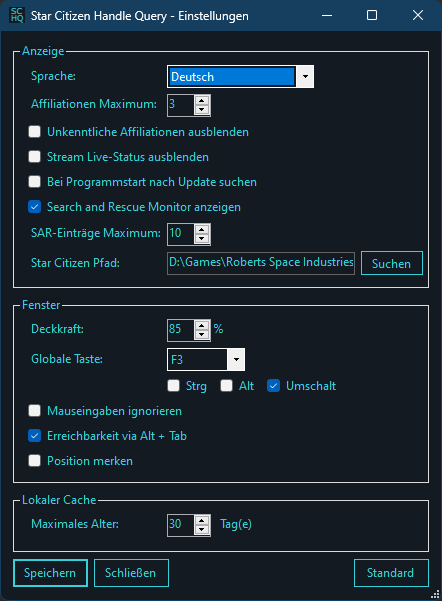
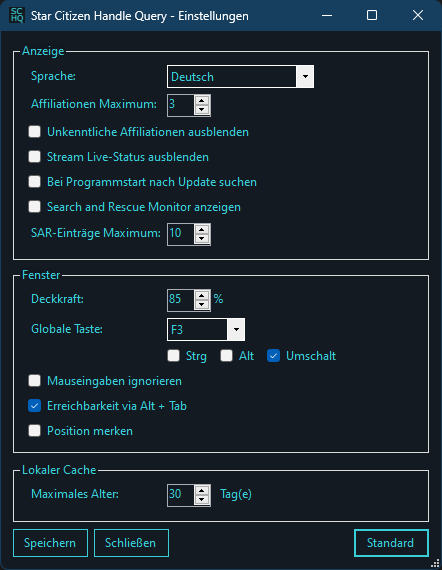
StarCitizen_Launcher Process

Changed region(s): [[0.0, 0.0, 1.0, 0.9842], [0.9706, 0.9842, 1.0, 1.0]]

diff --git a/Star Citizen Handle Query/Dialogs/FormSettings.Designer.cs b/Star Citizen Handle Query/Dialogs/FormSettings.Designer.cs
@@ -46,9 +46,6 @@
       this.GroupBoxLokalerCache = new System.Windows.Forms.GroupBox();
       this.ButtonStandard = new System.Windows.Forms.Button();
       this.GroupBoxAnzeige = new System.Windows.Forms.GroupBox();
-      this.ButtonStarCitizenPfadSuchen = new System.Windows.Forms.Button();
-      this.LabelStarCitizenPfad = new System.Windows.Forms.Label();
-      this.TextBoxStarCitizenPfad = new System.Windows.Forms.TextBox();
       this.NumericUpDownSAREintraegeMaximum = new System.Windows.Forms.NumericUpDown();
       this.LabelSAREintraegeMaximum = new System.Windows.Forms.Label();
       this.CheckBoxShowSAR = new System.Windows.Forms.CheckBox();
@@ -109,7 +106,7 @@
       // ButtonSpeichern
       // 
       this.ButtonSpeichern.FlatStyle = System.Windows.Forms.FlatStyle.Flat;
-      this.ButtonSpeichern.Location = new System.Drawing.Point(12, 528);
+      this.ButtonSpeichern.Location = new System.Drawing.Point(12, 498);
       this.ButtonSpeichern.Name = "ButtonSpeichern";
       this.ButtonSpeichern.Size = new System.Drawing.Size(75, 28);
       this.ButtonSpeichern.TabIndex = 3;
@@ -120,7 +117,7 @@
       // ButtonSchliessen
       // 
       this.ButtonSchliessen.FlatStyle = System.Windows.Forms.FlatStyle.Flat;
-      this.ButtonSchliessen.Location = new System.Drawing.Point(93, 528);
+      this.ButtonSchliessen.Location = new System.Drawing.Point(93, 498);
       this.ButtonSchliessen.Name = "ButtonSchliessen";
       this.ButtonSchliessen.Size = new System.Drawing.Size(75, 28);
       this.ButtonSchliessen.TabIndex = 4;
@@ -161,7 +158,7 @@
       this.GroupBoxFenster.Controls.Add(this.LabelFensterDeckkraftProzent);
       this.GroupBoxFenster.FlatStyle = System.Windows.Forms.FlatStyle.Flat;
       this.GroupBoxFenster.ForeColor = System.Drawing.Color.FromArgb(((int)(((byte)(57)))), ((int)(((byte)(206)))), ((int)(((byte)(216)))));
-      this.GroupBoxFenster.Location = new System.Drawing.Point(12, 266);
+      this.GroupBoxFenster.Location = new System.Drawing.Point(12, 236);
       this.GroupBoxFenster.Name = "GroupBoxFenster";
       this.GroupBoxFenster.Size = new System.Drawing.Size(416, 187);
       this.GroupBoxFenster.TabIndex = 1;
@@ -305,7 +302,7 @@
       this.GroupBoxLokalerCache.Controls.Add(this.LabelLokalerCacheAlter);
       this.GroupBoxLokalerCache.FlatStyle = System.Windows.Forms.FlatStyle.Flat;
       this.GroupBoxLokalerCache.ForeColor = System.Drawing.Color.FromArgb(((int)(((byte)(57)))), ((int)(((byte)(206)))), ((int)(((byte)(216)))));
-      this.GroupBoxLokalerCache.Location = new System.Drawing.Point(12, 461);
+      this.GroupBoxLokalerCache.Location = new System.Drawing.Point(12, 431);
       this.GroupBoxLokalerCache.Name = "GroupBoxLokalerCache";
       this.GroupBoxLokalerCache.Size = new System.Drawing.Size(416, 61);
       this.GroupBoxLokalerCache.TabIndex = 2;
@@ -315,7 +312,7 @@
       // ButtonStandard
       // 
       this.ButtonStandard.FlatStyle = System.Windows.Forms.FlatStyle.Flat;
-      this.ButtonStandard.Location = new System.Drawing.Point(353, 528);
+      this.ButtonStandard.Location = new System.Drawing.Point(353, 498);
       this.ButtonStandard.Name = "ButtonStandard";
       this.ButtonStandard.Size = new System.Drawing.Size(75, 28);
       this.ButtonStandard.TabIndex = 5;
@@ -325,9 +322,6 @@
       // 
       // GroupBoxAnzeige
       // 
-      this.GroupBoxAnzeige.Controls.Add(this.ButtonStarCitizenPfadSuchen);
-      this.GroupBoxAnzeige.Controls.Add(this.LabelStarCitizenPfad);
-      this.GroupBoxAnzeige.Controls.Add(this.TextBoxStarCitizenPfad);
       this.GroupBoxAnzeige.Controls.Add(this.NumericUpDownSAREintraegeMaximum);
       this.GroupBoxAnzeige.Controls.Add(this.LabelSAREintraegeMaximum);
       this.GroupBoxAnzeige.Controls.Add(this.CheckBoxShowSAR);
@@ -342,42 +336,10 @@
       this.GroupBoxAnzeige.ForeColor = System.Drawing.Color.FromArgb(((int)(((byte)(57)))), ((int)(((byte)(206)))), ((int)(((byte)(216)))));
       this.GroupBoxAnzeige.Location = new System.Drawing.Point(12, 12);
       this.GroupBoxAnzeige.Name = "GroupBoxAnzeige";
-      this.GroupBoxAnzeige.Size = new System.Drawing.Size(416, 246);
+      this.GroupBoxAnzeige.Size = new System.Drawing.Size(416, 218);
       this.GroupBoxAnzeige.TabIndex = 0;
       this.GroupBoxAnzeige.TabStop = false;
       this.GroupBoxAnzeige.Text = "Anzeige";
-      // 
-      // ButtonStarCitizenPfadSuchen
-      // 
-      this.ButtonStarCitizenPfadSuchen.FlatStyle = System.Windows.Forms.FlatStyle.Flat;
-      this.ButtonStarCitizenPfadSuchen.Location = new System.Drawing.Point(348, 208);
-      this.ButtonStarCitizenPfadSuchen.Name = "ButtonStarCitizenPfadSuchen";
-      this.ButtonStarCitizenPfadSuchen.Size = new System.Drawing.Size(62, 24);
-      this.ButtonStarCitizenPfadSuchen.TabIndex = 12;
-      this.ButtonStarCitizenPfadSuchen.Text = "Suchen";
-      this.ButtonStarCitizenPfadSuchen.UseVisualStyleBackColor = true;
-      this.ButtonStarCitizenPfadSuchen.Click += new System.EventHandler(this.ButtonStarCitizenPfadSuchen_Click);
-      // 
-      // LabelStarCitizenPfad
-      // 
-      this.LabelStarCitizenPfad.AutoSize = true;
-      this.LabelStarCitizenPfad.Location = new System.Drawing.Point(15, 212);
-      this.LabelStarCitizenPfad.Name = "LabelStarCitizenPfad";
-      this.LabelStarCitizenPfad.Size = new System.Drawing.Size(96, 15);
-      this.LabelStarCitizenPfad.TabIndex = 10;
-      this.LabelStarCitizenPfad.Text = "Star Citizen Pfad:";
-      // 
-      // TextBoxStarCitizenPfad
-      // 
-      this.TextBoxStarCitizenPfad.BackColor = System.Drawing.Color.FromArgb(((int)(((byte)(19)))), ((int)(((byte)(26)))), ((int)(((byte)(33)))));
-      this.TextBoxStarCitizenPfad.BorderStyle = System.Windows.Forms.BorderStyle.FixedSingle;
-      this.TextBoxStarCitizenPfad.ForeColor = System.Drawing.Color.FromArgb(((int)(((byte)(57)))), ((int)(((byte)(206)))), ((int)(((byte)(216)))));
-      this.TextBoxStarCitizenPfad.Location = new System.Drawing.Point(154, 209);
-      this.TextBoxStarCitizenPfad.Name = "TextBoxStarCitizenPfad";
-      this.TextBoxStarCitizenPfad.PlaceholderText = "Pfad zur StarCitizen.exe";
-      this.TextBoxStarCitizenPfad.Size = new System.Drawing.Size(188, 23);
-      this.TextBoxStarCitizenPfad.TabIndex = 11;
-      this.TextBoxStarCitizenPfad.TextChanged += new System.EventHandler(this.TextBoxStarCitizenPfad_TextChanged);
       // 
       // NumericUpDownSAREintraegeMaximum
       // 
@@ -493,7 +455,7 @@
       this.AutoScaleMode = System.Windows.Forms.AutoScaleMode.Font;
       this.BackColor = System.Drawing.Color.FromArgb(((int)(((byte)(19)))), ((int)(((byte)(26)))), ((int)(((byte)(33)))));
       this.CancelButton = this.ButtonSchliessen;
-      this.ClientSize = new System.Drawing.Size(440, 569);
+      this.ClientSize = new System.Drawing.Size(440, 538);
       this.Controls.Add(this.GroupBoxAnzeige);
       this.Controls.Add(this.GroupBoxLokalerCache);
       this.Controls.Add(this.GroupBoxFenster);
@@ -502,7 +464,7 @@
       this.Controls.Add(this.ButtonSpeichern);
       this.ForeColor = System.Drawing.Color.FromArgb(((int)(((byte)(57)))), ((int)(((byte)(206)))), ((int)(((byte)(216)))));
       this.Icon = ((System.Drawing.Icon)(resources.GetObject("$this.Icon")));
-      this.MinimumSize = new System.Drawing.Size(456, 608);
+      this.MinimumSize = new System.Drawing.Size(456, 577);
       this.Name = "FormSettings";
       this.StartPosition = System.Windows.Forms.FormStartPosition.CenterScreen;
       this.Text = "Star Citizen Handle Query Einstellungen";
@@ -551,8 +513,5 @@
         private Label LabelFensterDeckkraft;
         private NumericUpDown NumericUpDownSAREintraegeMaximum;
         private Label LabelSAREintraegeMaximum;
-        private Label LabelStarCitizenPfad;
-        private TextBox TextBoxStarCitizenPfad;
-        private Button ButtonStarCitizenPfadSuchen;
     }
 }

diff --git a/Star Citizen Handle Query/Dialogs/FormSettings.cs b/Star Citizen Handle Query/Dialogs/FormSettings.cs
@@ -72,7 +72,6 @@ namespace Star_Citizen_Handle_Query.Dialogs {
       CheckBoxHideStreamLiveStatus.Checked = ProgramSettings.HideStreamLiveStatus;
       CheckBoxShowSAR.Checked = ProgramSettings.SARMonitor.ShowWindow;
       NumericUpDownSAREintraegeMaximum.Value = ProgramSettings.SARMonitor.EntriesMax;
-      TextBoxStarCitizenPfad.Text = ProgramSettings.SARMonitor.StarCitizenExePath;
     }
 
     private void GetLocalizations() {
@@ -86,16 +85,12 @@ namespace Star_Citizen_Handle_Query.Dialogs {
 
     private void ButtonSpeichern_Click(object sender, EventArgs e) {
       ButtonSpeichern.Focus();
-      if (!ProgramSettings.SARMonitor.ShowWindow || File.Exists(ProgramSettings.SARMonitor.StarCitizenExePath)) {
-        string settingsFilePath = FormHandleQuery.GetSettingsFilePath();
-        try {
-          File.WriteAllText(settingsFilePath, JsonSerializer.Serialize(ProgramSettings, new JsonSerializerOptions() { WriteIndented = true }), Encoding.UTF8);
-          DialogResult = DialogResult.OK;
-        } catch (Exception ex) {
-          MessageBox.Show($"{CurrentLocalization.Settings.MessageBoxes.Save_Fail} {ex.Message}", Text, MessageBoxButtons.OK, MessageBoxIcon.Error);
-        }
-      } else {
-        MessageBox.Show(CurrentLocalization.Settings.MessageBoxes.Save_StarCitizen_Exe_No_Access, Text, MessageBoxButtons.OK, MessageBoxIcon.Warning);
+      string settingsFilePath = FormHandleQuery.GetSettingsFilePath();
+      try {
+        File.WriteAllText(settingsFilePath, JsonSerializer.Serialize(ProgramSettings, new JsonSerializerOptions() { WriteIndented = true }), Encoding.UTF8);
+        DialogResult = DialogResult.OK;
+      } catch (Exception ex) {
+        MessageBox.Show($"{CurrentLocalization.Settings.MessageBoxes.Save_Fail} {ex.Message}", Text, MessageBoxButtons.OK, MessageBoxIcon.Error);
       }
     }
 
@@ -172,19 +167,6 @@ namespace Star_Citizen_Handle_Query.Dialogs {
       ProgramSettings.SARMonitor.EntriesMax = Convert.ToInt32(NumericUpDownSAREintraegeMaximum.Value);
     }
 
-    private void TextBoxStarCitizenPfad_TextChanged(object sender, EventArgs e) {
-      ProgramSettings.SARMonitor.StarCitizenExePath = TextBoxStarCitizenPfad.Text;
-    }
-
-    private void ButtonStarCitizenPfadSuchen_Click(object sender, EventArgs e) {
-      using OpenFileDialog ofd = new() {
-        Filter = "StarCitizen.exe|StarCitizen.exe"
-      };
-      if (ofd.ShowDialog() == DialogResult.OK) {
-        TextBoxStarCitizenPfad.Text = ofd.FileName;
-      }
-    }
-
     private void ButtonStandard_Click(object sender, EventArgs e) {
       ProgramSettings = new() { Language = ProgramSettings.Language };
       SetDialogValues();
@@ -203,9 +185,6 @@ namespace Star_Citizen_Handle_Query.Dialogs {
       CheckBoxAutoCheckForUpdate.Text = CurrentLocalization.Settings.Display.Auto_Check_For_Update;
       CheckBoxShowSAR.Text = CurrentLocalization.Settings.Display.Show_Search_And_Rescue_Monitor;
       LabelSAREintraegeMaximum.Text = CurrentLocalization.Settings.Display.SAR_Entries_Max;
-      LabelStarCitizenPfad.Text = CurrentLocalization.Settings.Display.Star_Citizen_Path;
-      TextBoxStarCitizenPfad.PlaceholderText = CurrentLocalization.Settings.Display.Star_Citizen_Path_Placeholder;
-      ButtonStarCitizenPfadSuchen.Text = CurrentLocalization.Settings.Display.Search_StarCitizen_Exe_Button;
 
       GroupBoxFenster.Text = CurrentLocalization.Settings.Window.Group_Title;
       LabelFensterDeckkraft.Text = CurrentLocalization.Settings.Window.Opacity;

diff --git a/Star Citizen Handle Query/Dialogs/FormSARMonitor.cs b/Star Citizen Handle Query/Dialogs/FormSARMonitor.cs
@@ -90,17 +90,17 @@ namespace Star_Citizen_Handle_Query.Dialogs {
 
           Invoke(new Action(() => ChangeStatus(Status.Inactive)));
 
-          Process[] processes = Process.GetProcessesByName("StarCitizen");
+          Process[] processes = Process.GetProcessesByName("StarCitizen_Launcher");
           Process processSC = null;
           if (processes?.Length > 0) {
-            processSC = Process.GetProcessesByName("StarCitizen")[0];
+            processSC = Process.GetProcessesByName("StarCitizen_Launcher")[0];
           }
 
           if (processSC != null) {
 
             Invoke(new Action(() => ChangeStatus(Status.Initializing)));
 
-            string scLogPath = Path.Combine(Path.GetDirectoryName(ProgramSettings.SARMonitor.StarCitizenExePath), $@"..\Game.log");
+            string scLogPath = Path.Combine(Path.GetDirectoryName(processSC.Modules[0].FileName), $@"Game.log");
             if (File.Exists(scLogPath)) {
 
               LogReader = new StreamReader(new FileStream(scLogPath, FileMode.Open, FileAccess.Read, FileShare.ReadWrite), Encoding.UTF8);

diff --git a/Star Citizen Handle Query/Serialization/Translation.cs b/Star Citizen Handle Query/Serialization/Translation.cs
@@ -128,10 +128,6 @@
 
     public string Star_Citizen_Path { get; set; } = "Star Citizen Pfad:";
 
-    public string Star_Citizen_Path_Placeholder { get; set; } = "Pfad zur StarCitizen.exe";
-
-    public string Search_StarCitizen_Exe_Button { get; set; } = "Suchen";
-
   }
 
   [Serializable()]
@@ -185,8 +181,6 @@
   public class Translation_Settings_MessageBoxes {
 
     public string Save_Fail { get; set; } = "Das Speichern der Einstellungen ist fehlgeschlagen:\r\nFehlermeldung:";
-
-    public string Save_StarCitizen_Exe_No_Access { get; set; } = "Auf den Star Citizen Pfad kann nicht zugegriffen werden.";
 
   }
 

diff --git a/Star Citizen Handle Query/Dialogs/FormHandleQuery.cs b/Star Citizen Handle Query/Dialogs/FormHandleQuery.cs
@@ -316,7 +316,7 @@ namespace Star_Citizen_Handle_Query.Dialogs {
       }
 
       // Ggf. LogFileWatcher-Fenster anzeigen
-      if (ProgramSettings.SARMonitor.ShowWindow && File.Exists(ProgramSettings.SARMonitor.StarCitizenExePath)) {
+      if (ProgramSettings.SARMonitor.ShowWindow) {
         SARMonitorForm = new(ProgramSettings);
         SARMonitorForm.Show(this);
         if (ProgramSettings?.RememberWindowLocation == true && ProgramSettings?.SARMonitor?.WindowLocation != Point.Empty && ModifierKeys != Keys.Shift) {

diff --git a/Star Citizen Handle Query/Serialization/Settings.cs b/Star Citizen Handle Query/Serialization/Settings.cs
@@ -99,9 +99,6 @@
     /// <summary>Angabe, ob das Fenster angezeigt werden soll</summary>
     public bool ShowWindow { get; set; } = false;
 
-    /// <summary>Pfad zur StarCitizen.exe-Datei</summary>
-    public string StarCitizenExePath { get; set; } = string.Empty;
-
     /// <summary>Position des LogFileWatcher-Fensters</summary>
     public Point WindowLocation { get; set; } = Point.Empty;
 
